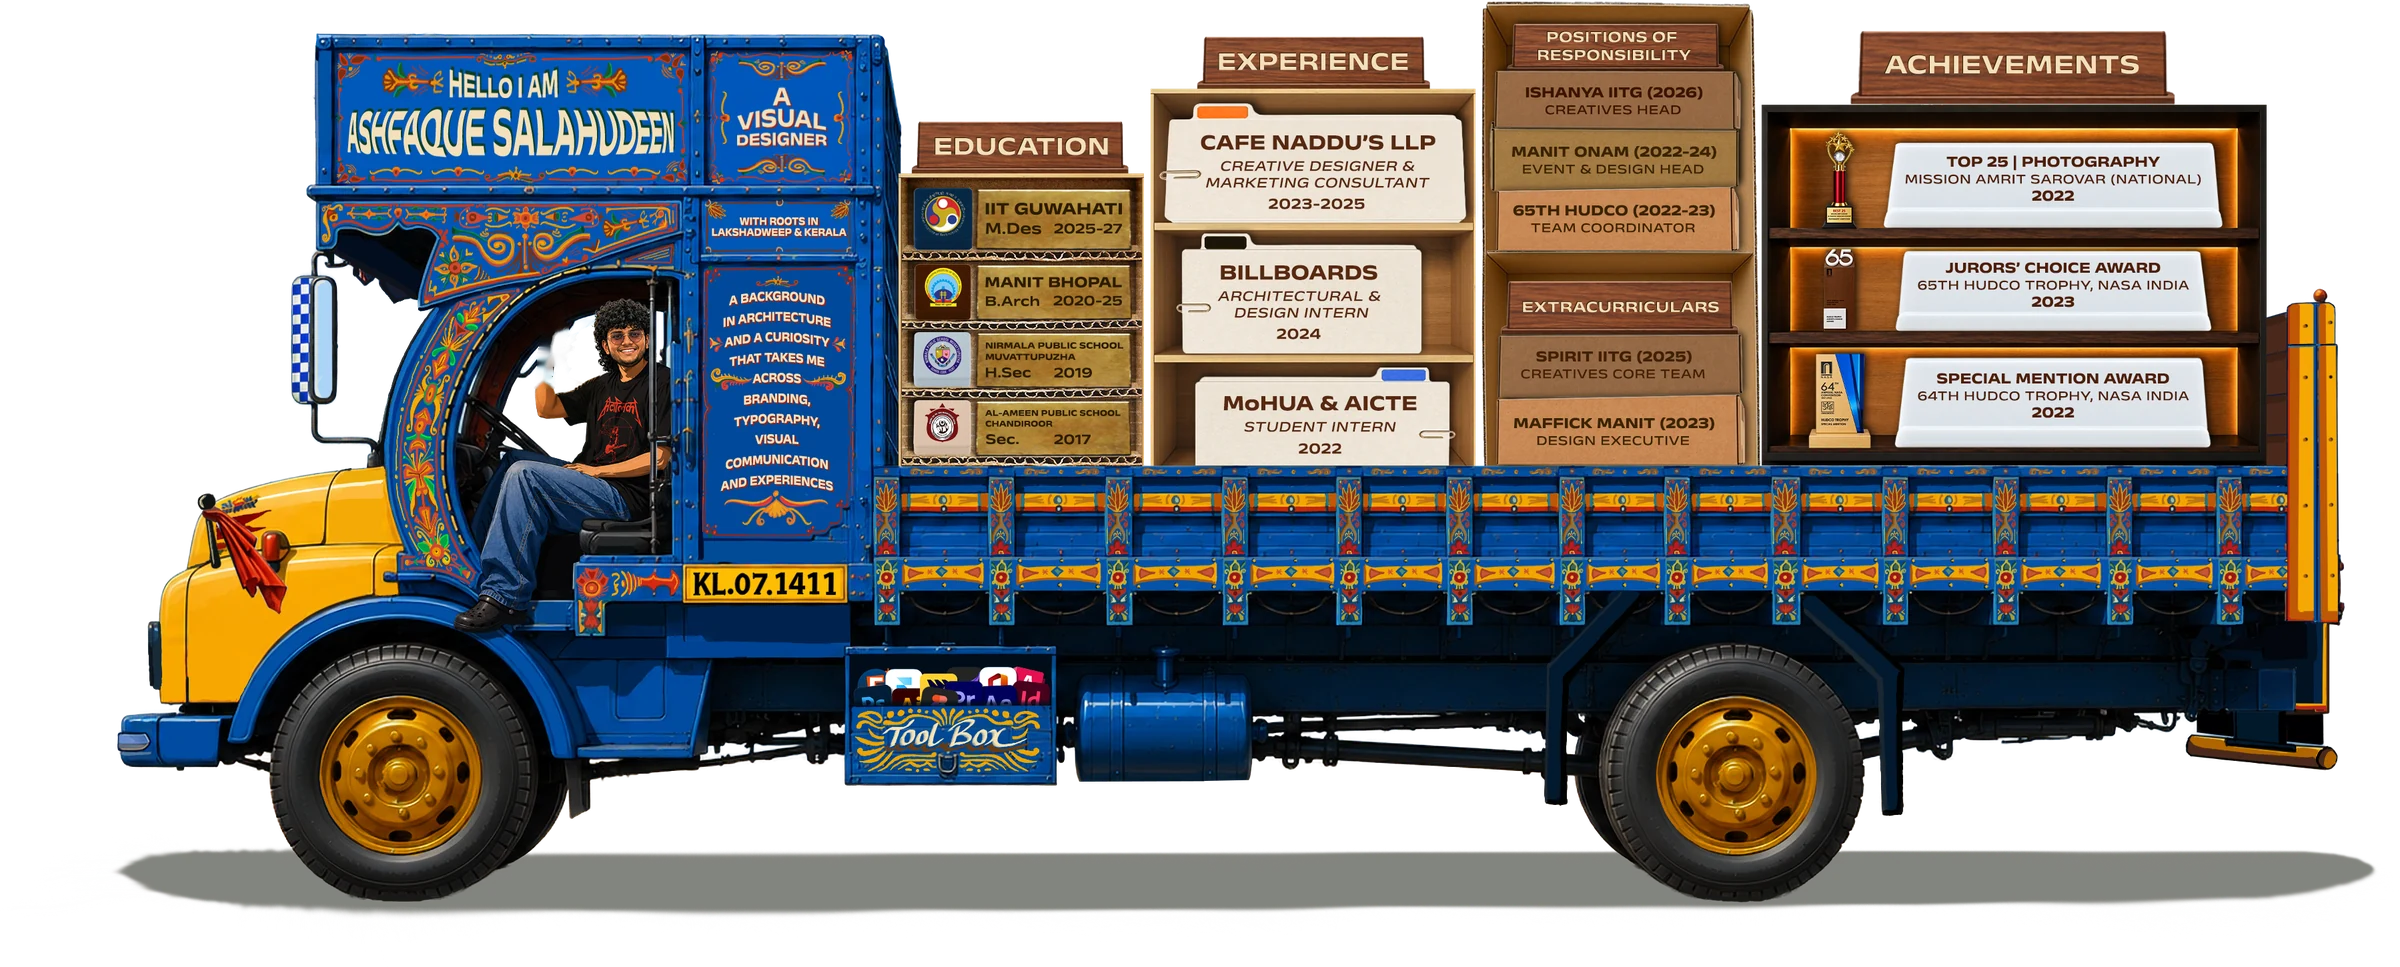
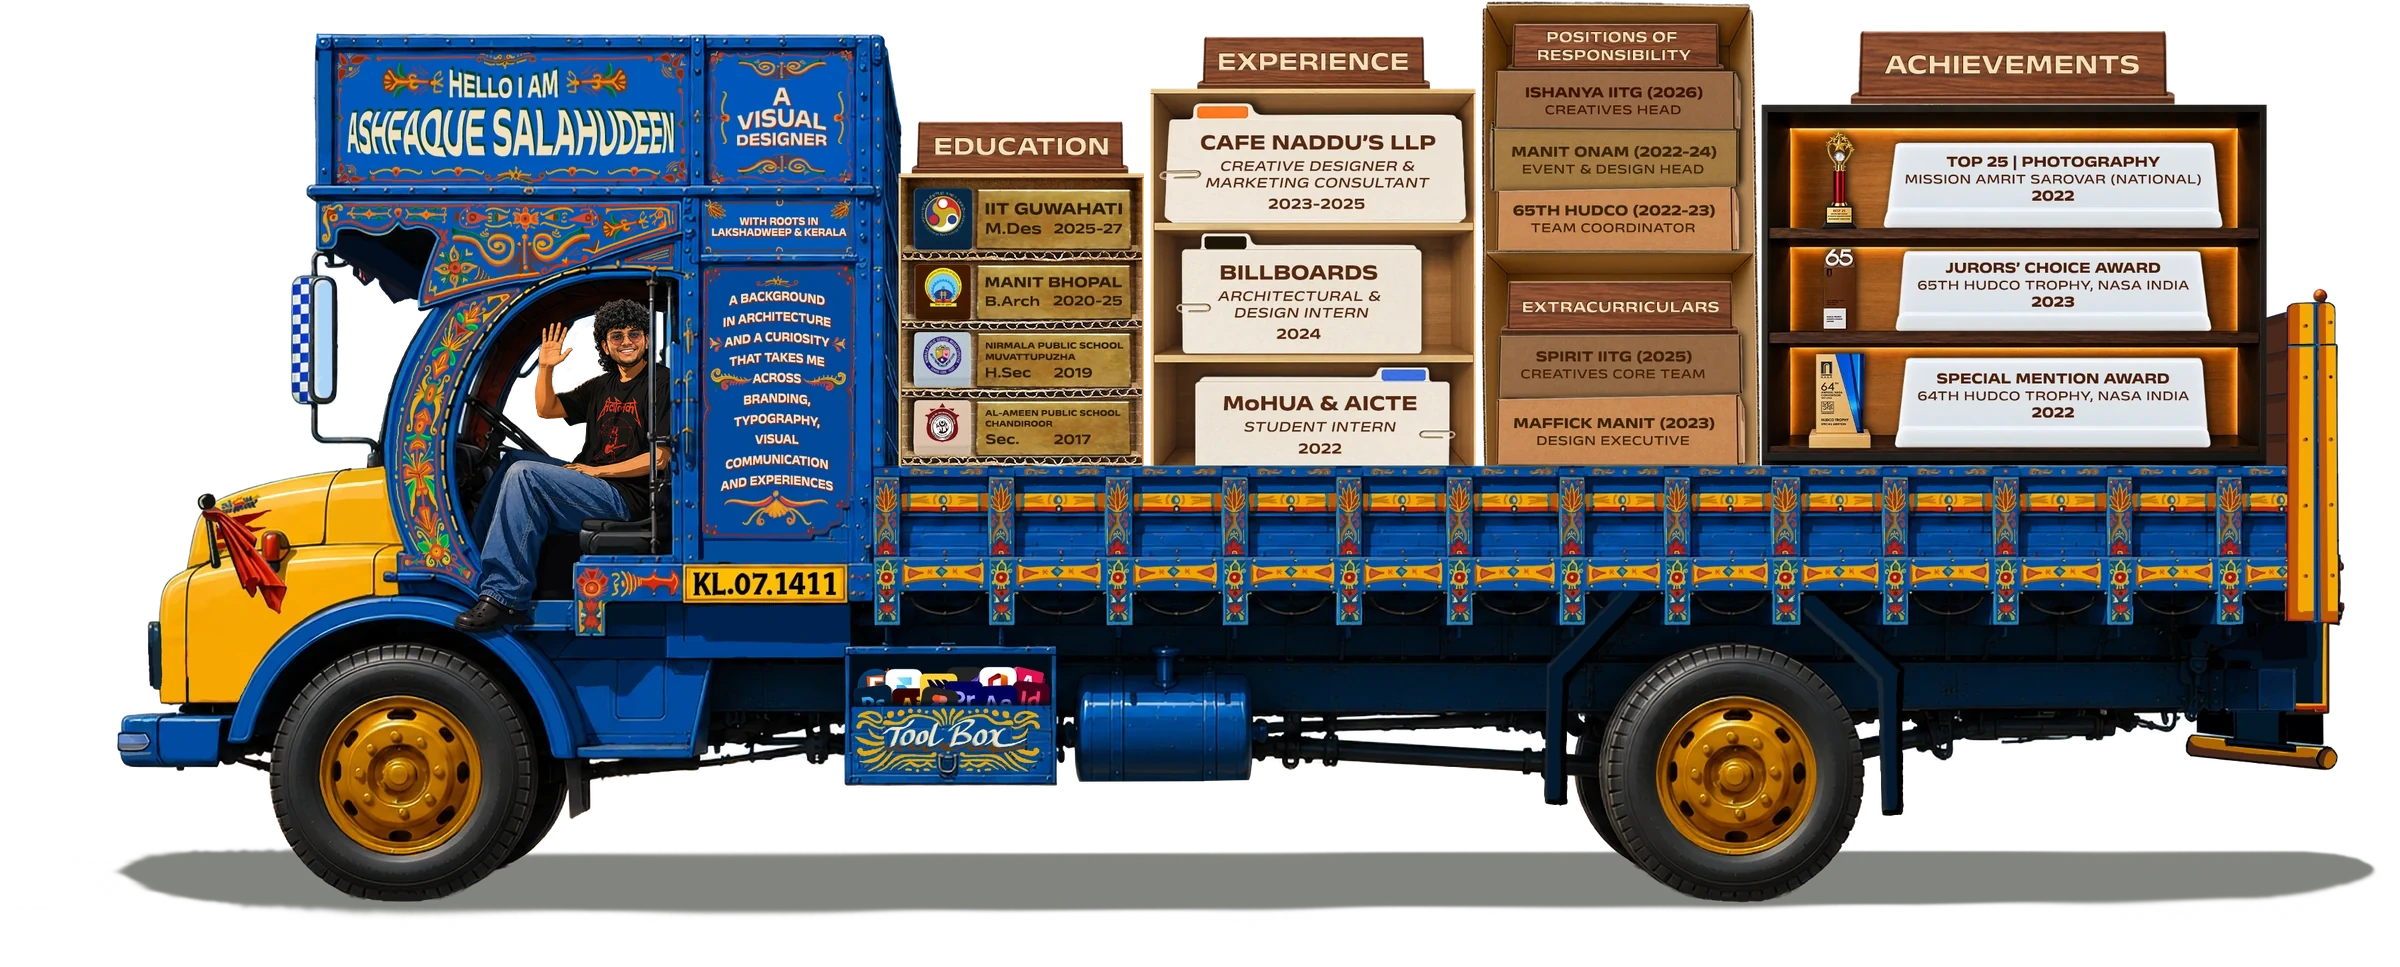
Mobile menu button, contact board, studio, footer and intro updates

diff --git a/css/style.css b/css/style.css
@@ -398,7 +398,6 @@ a { color: inherit; text-decoration: none; -webkit-tap-highlight-color: transpar
 .about__truck { width: var(--tw); margin-left: var(--ml); translate: calc((1 - var(--ap)) * (70vw - var(--ml)) - var(--ep) * (var(--tw) + var(--ml) + 4vw)) 0; will-change: translate; }   /* rolls in from the right, parks, then drives on out of the left edge */
 .truckbox { --k: calc(var(--tw) / 2400); position: relative; }
 .truckbox__body { width: 100%; height: auto; display: block; }
-.truckbox__hand { position: absolute; left: 22%; top: 20.27%; width: 5.125%; height: auto; pointer-events: none; }
 .wheel { position: absolute; height: auto; aspect-ratio: 1; border-radius: 50%; rotate: calc((var(--ap) + var(--ep) * 1.1) * -1500deg); }
 .wheel--f { left: 13.292%; top: 72.492%; width: 6.75%; }
 .wheel--r { left: 68.98%; top: 72.492%; width: 6.75%; }

diff --git a/about.html b/about.html
@@ -93,7 +93,6 @@
         </div>
         <div class="about__road"><div class="about__truck"><div class="truckbox">
           <img class="truckbox__body" src="assets/about/truck.webp" alt="Ashfaque waving from the cab of a painted truck whose load carries his education, experience, positions of responsibility and achievements, with a toolbox of design apps on the side" width="2400" height="967" decoding="async">
-          <img class="truckbox__hand" src="assets/about/hand.webp" alt="" aria-hidden="true" width="123" height="210" decoding="async">
           <img class="wheel wheel--f" src="assets/about/wheel-f.webp" alt="" aria-hidden="true" decoding="async">
           <img class="wheel wheel--r" src="assets/about/wheel-r.webp" alt="" aria-hidden="true" decoding="async">
           <div class="tools" id="tools">
